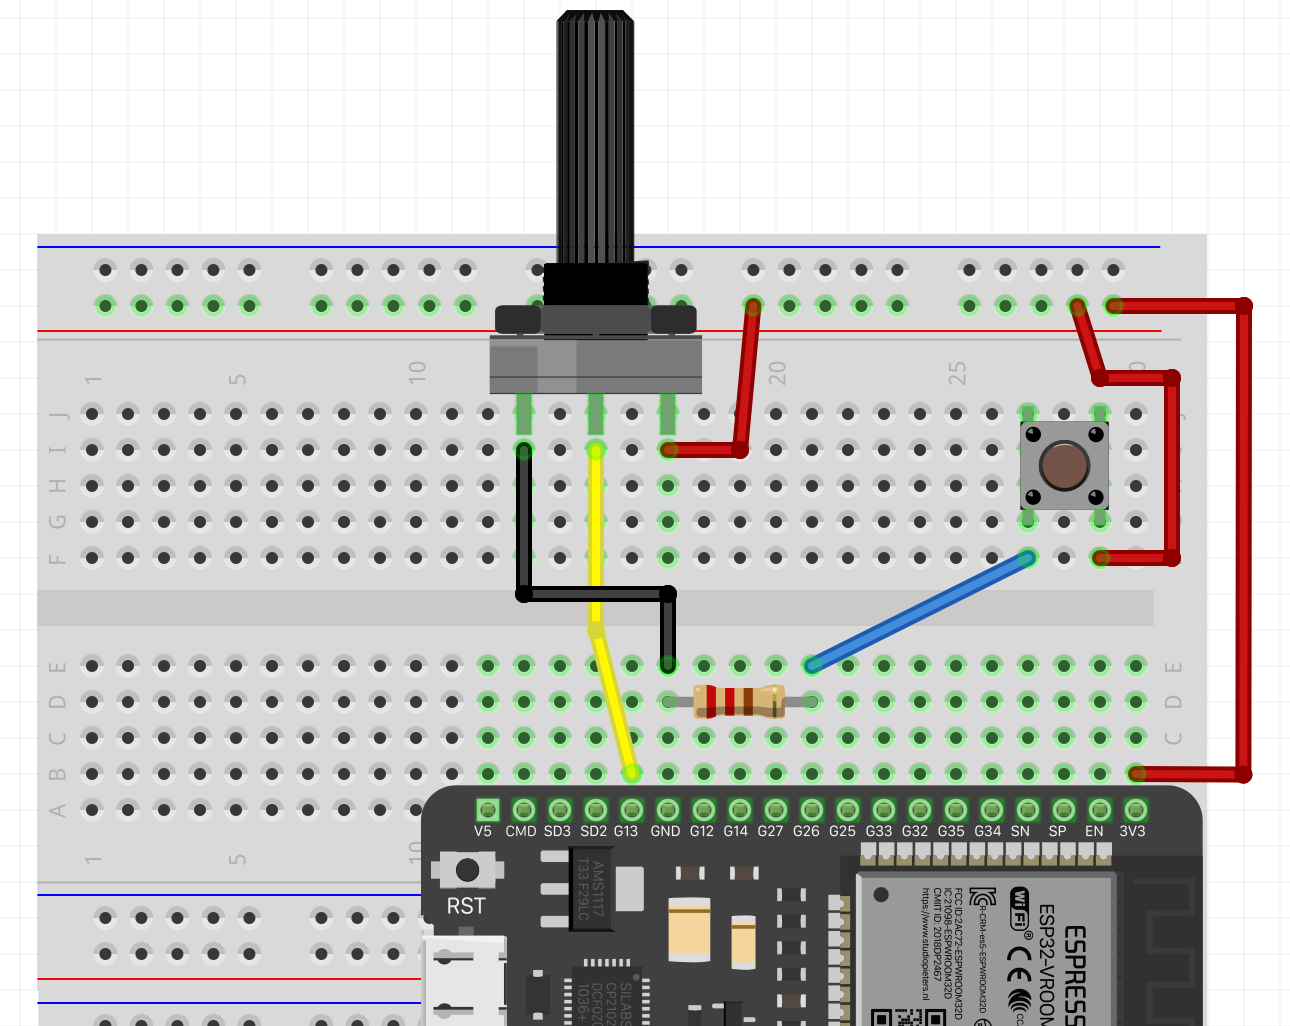
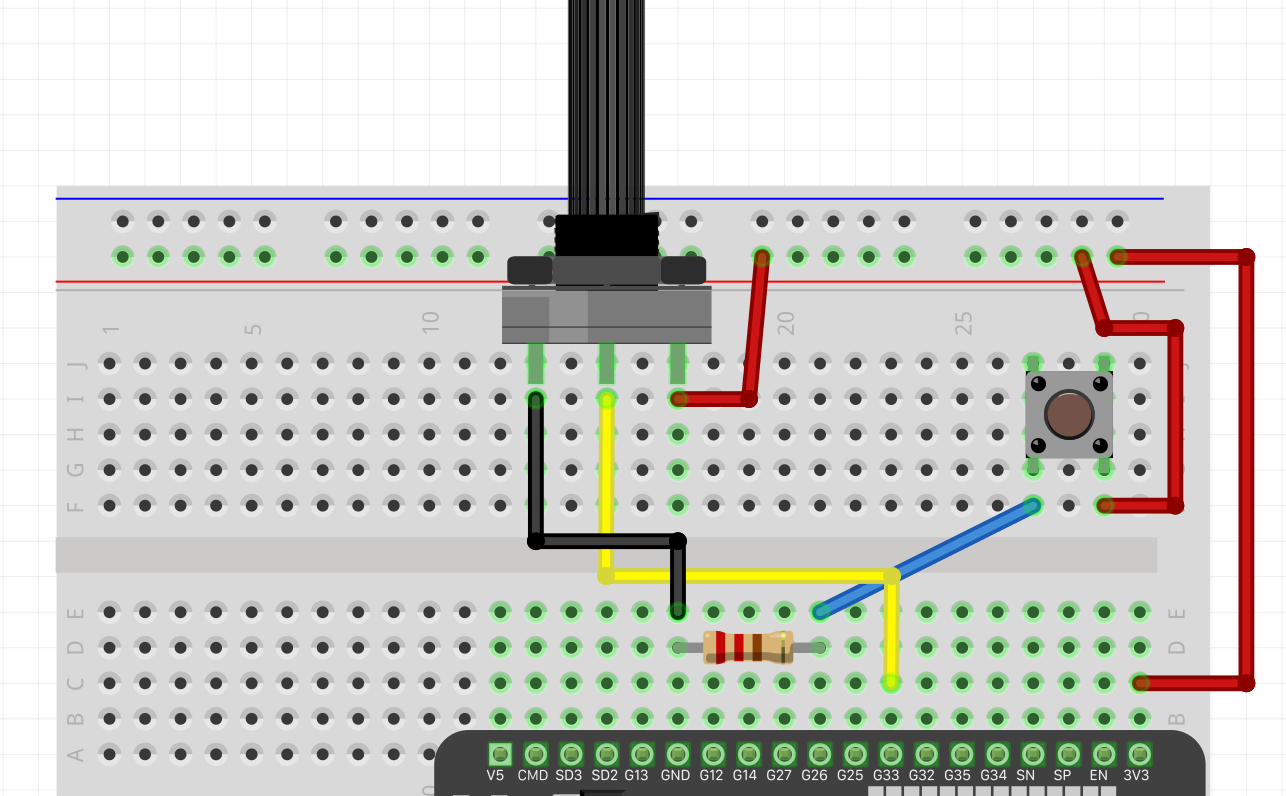
Change potentiometer pin from adc2 to adc1 due to wifi issues.

diff --git a/esp32-tutorial/x.user-experience/x.user-experience.md b/esp32-tutorial/x.user-experience/x.user-experience.md
@@ -92,9 +92,6 @@ printStuff(msg);
 
 15. If you upload the code the display should still display "IoT Knowabunga 2023" and flicker. Try using the built in character array comparison function `strcmp` to stop the flicering.
 
-<details>
-  <summary>Solution</summary>
-
 ```cpp
 void printStuff(char* someText) {
   if (strcmp(previousDisplayValue, someText) == 0) {
@@ -110,7 +107,6 @@ void printStuff(char* someText) {
   strcpy(previousDisplayValue, someText);
 }
 ```
-</details>
 
 You should hopefully have a non-flickering display now.
 
@@ -120,13 +116,15 @@ char msg[4];
 itoa(mappedValue, msg, 10);
 ```
 
+17. Remove the `Serial.println(mappedValue);` from `loop()`. We don't need to print that value to the serial port now that we see it on the display.
+
 Your code should now look something like this:
 ```cpp
 #include <Arduino.h>
 #include <TFT_eSPI.h>
 
 #define BUTTON_PIN 26
-#define POT_PIN 13
+#define POTENTIOMETER_PIN 33
 
 TFT_eSPI tft = TFT_eSPI();
 char previousDisplayValue[100];
@@ -155,10 +153,8 @@ void printStuff(char* someText) {
 
 void loop() {
   int buttonState = digitalRead(BUTTON_PIN);
-  int potentiometerValue = analogRead(POT_PIN);
+  int potentiometerValue = analogRead(POTENTIOMETER_PIN);
   int mappedValue = map(potentiometerValue, 0, 4095, 0, 10);
-
-  Serial.println(mappedValue);
 
   char msg[4];
   itoa(mappedValue, msg, 10);

diff --git a/esp32-tutorial/x.hardware-interfacing/x.hardware-interfacing.md b/esp32-tutorial/x.hardware-interfacing/x.hardware-interfacing.md
@@ -47,7 +47,7 @@ Some of the gpio pins on the ESP32 are also capable of reading analog values. In
 To illustrate this we will wire a potentiometer to the ESP32. A potentiometer is basically just a variable resistor with three pins: Vin, Output and Ground.
 
 1. Open your `src/main.cpp` file.
-2. Below `#define BUTTON_PIN 26` add `#define POTENTIOMETER_PIN 13`
+2. Below `#define BUTTON_PIN 26` add `#define POTENTIOMETER_PIN 33`
 3. Add a potentiometer to your breadboard and wire it like on the image below:
 
 <img src="images/potentiometer-wiring.png" width="400px">
@@ -68,7 +68,7 @@ Let's try to map the potentiometer value to a 0 to 10 range by adding `int mappe
 #include <Arduino.h>
 
 #define BUTTON_PIN 26
-#define POT_PIN 13
+#define POTENTIOMETER_PIN 33
 
 void setup() {
   Serial.begin(115200);
